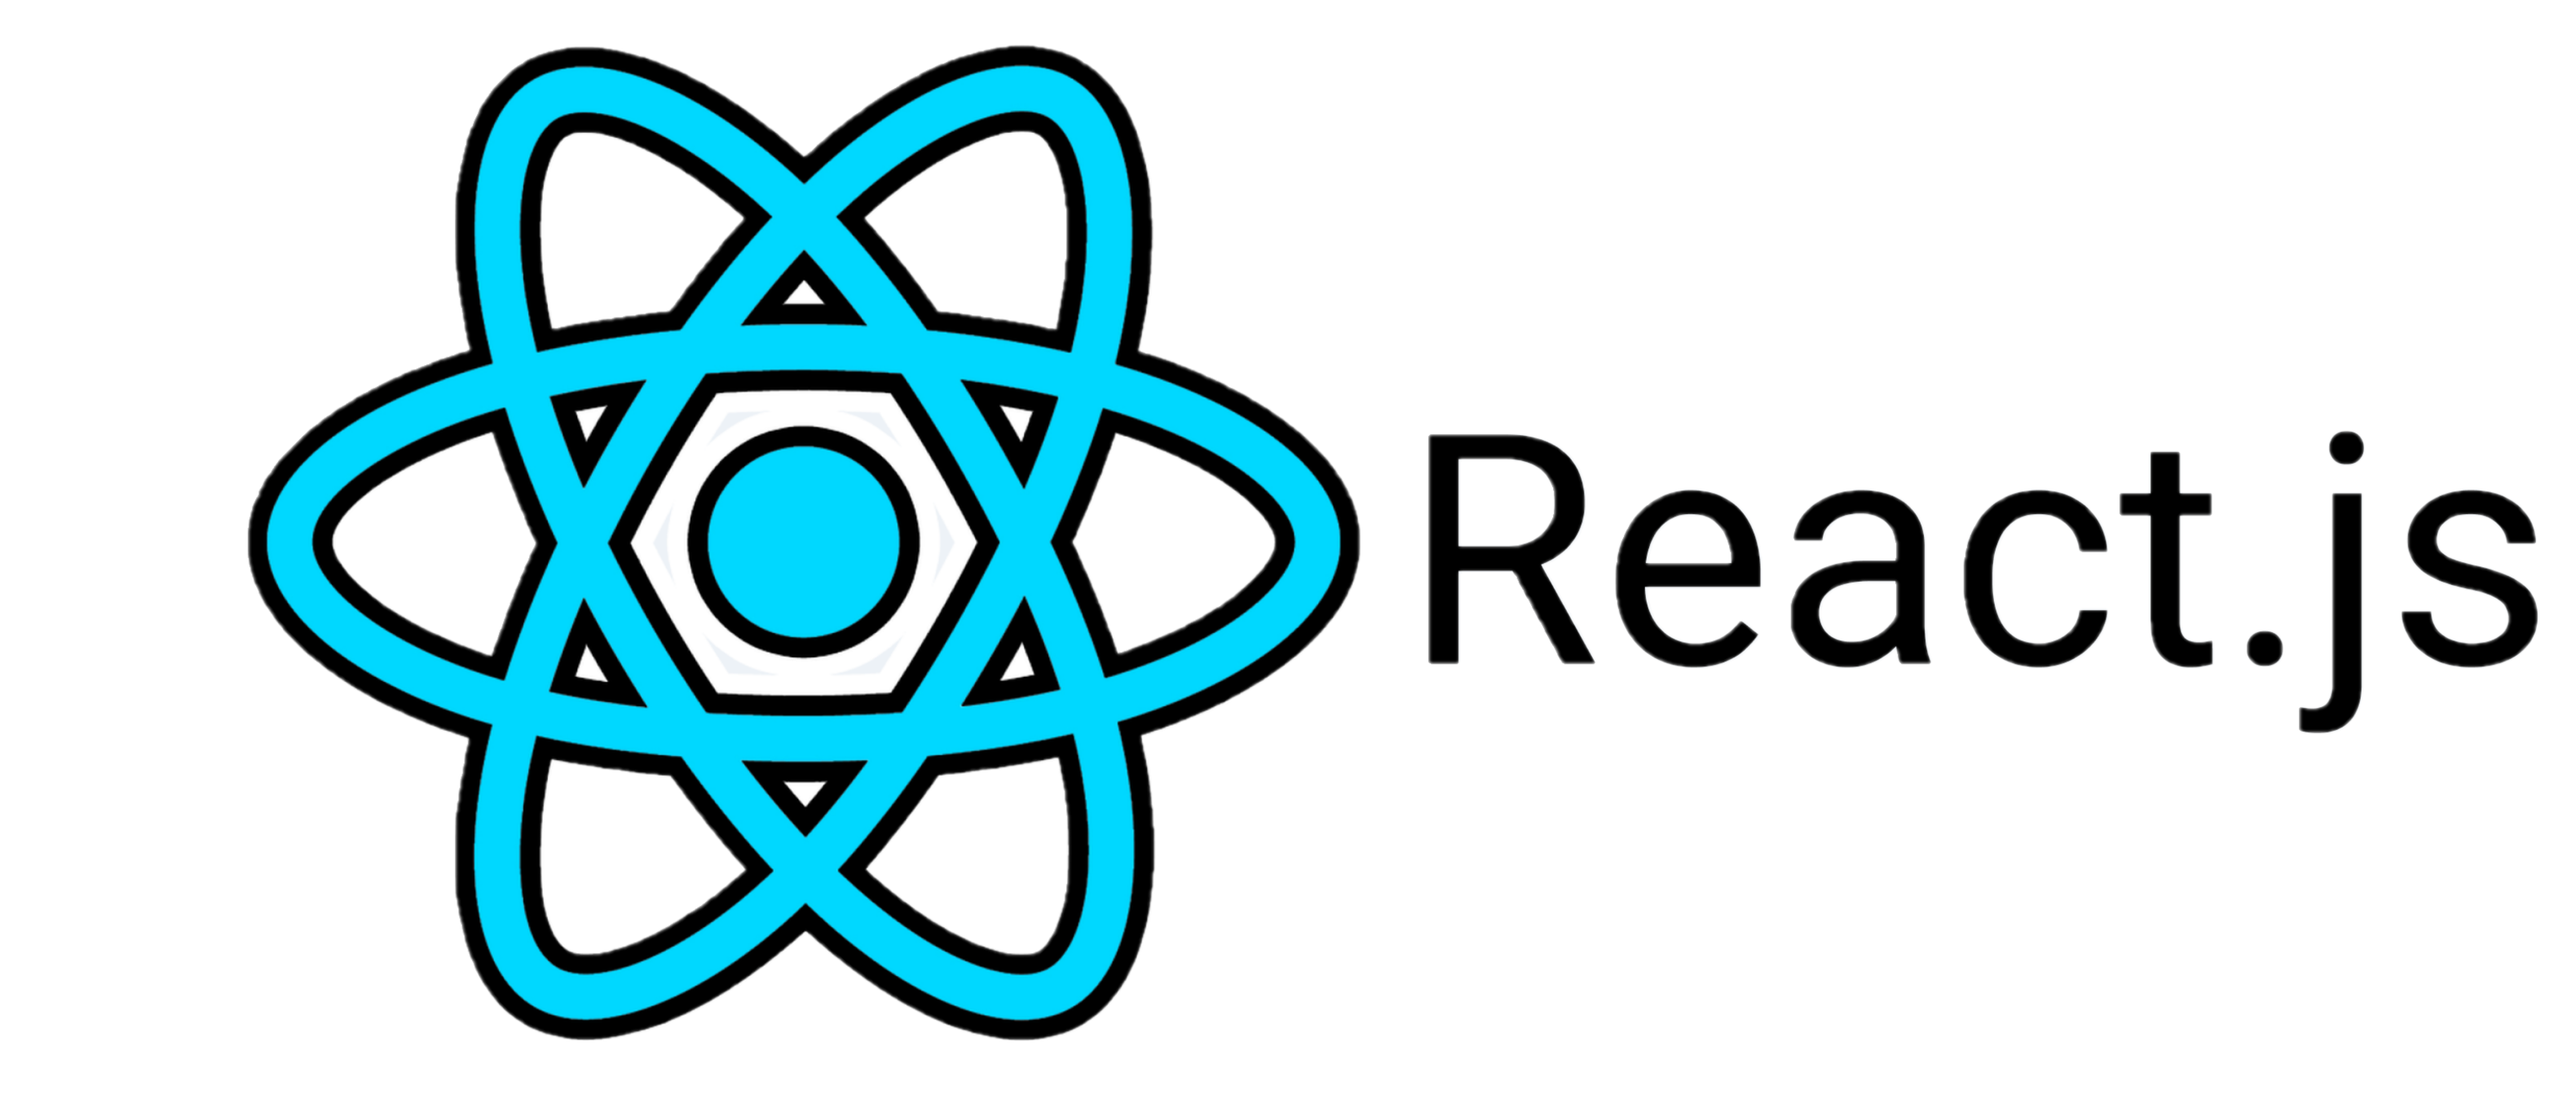
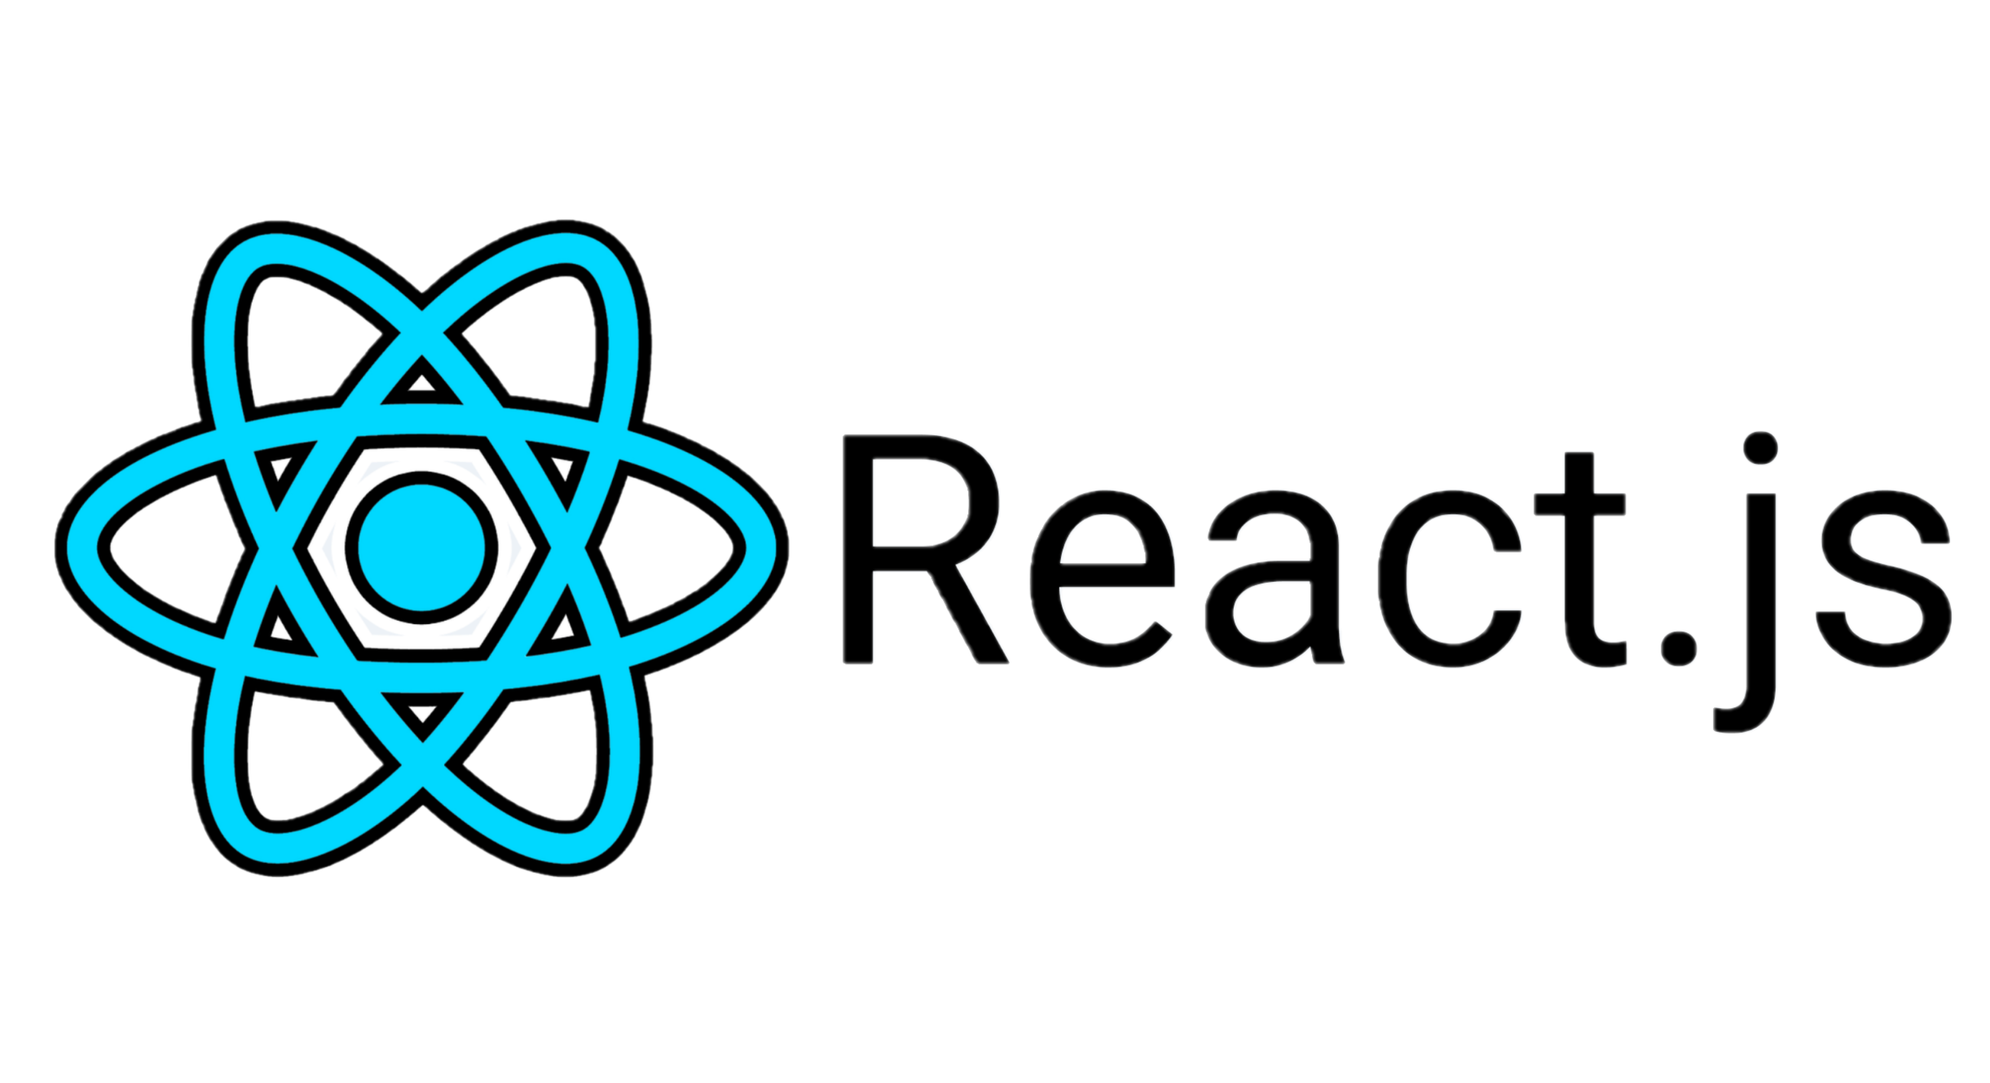
Fix CSS Grid image overflow issue in about-me section

Changed region(s): [[0.0, 0.0309, 0.9959, 0.9564]]

diff --git a/src/pages/About.tsx b/src/pages/About.tsx
@@ -276,6 +276,8 @@ const About = () => {
                                 >
                                     <img
                                         style={{
+                                            objectFit: "cover",
+                                            width: "100%",
                                             maxWidth: "80%",
                                             maxHeight: "80%",
                                         }}
